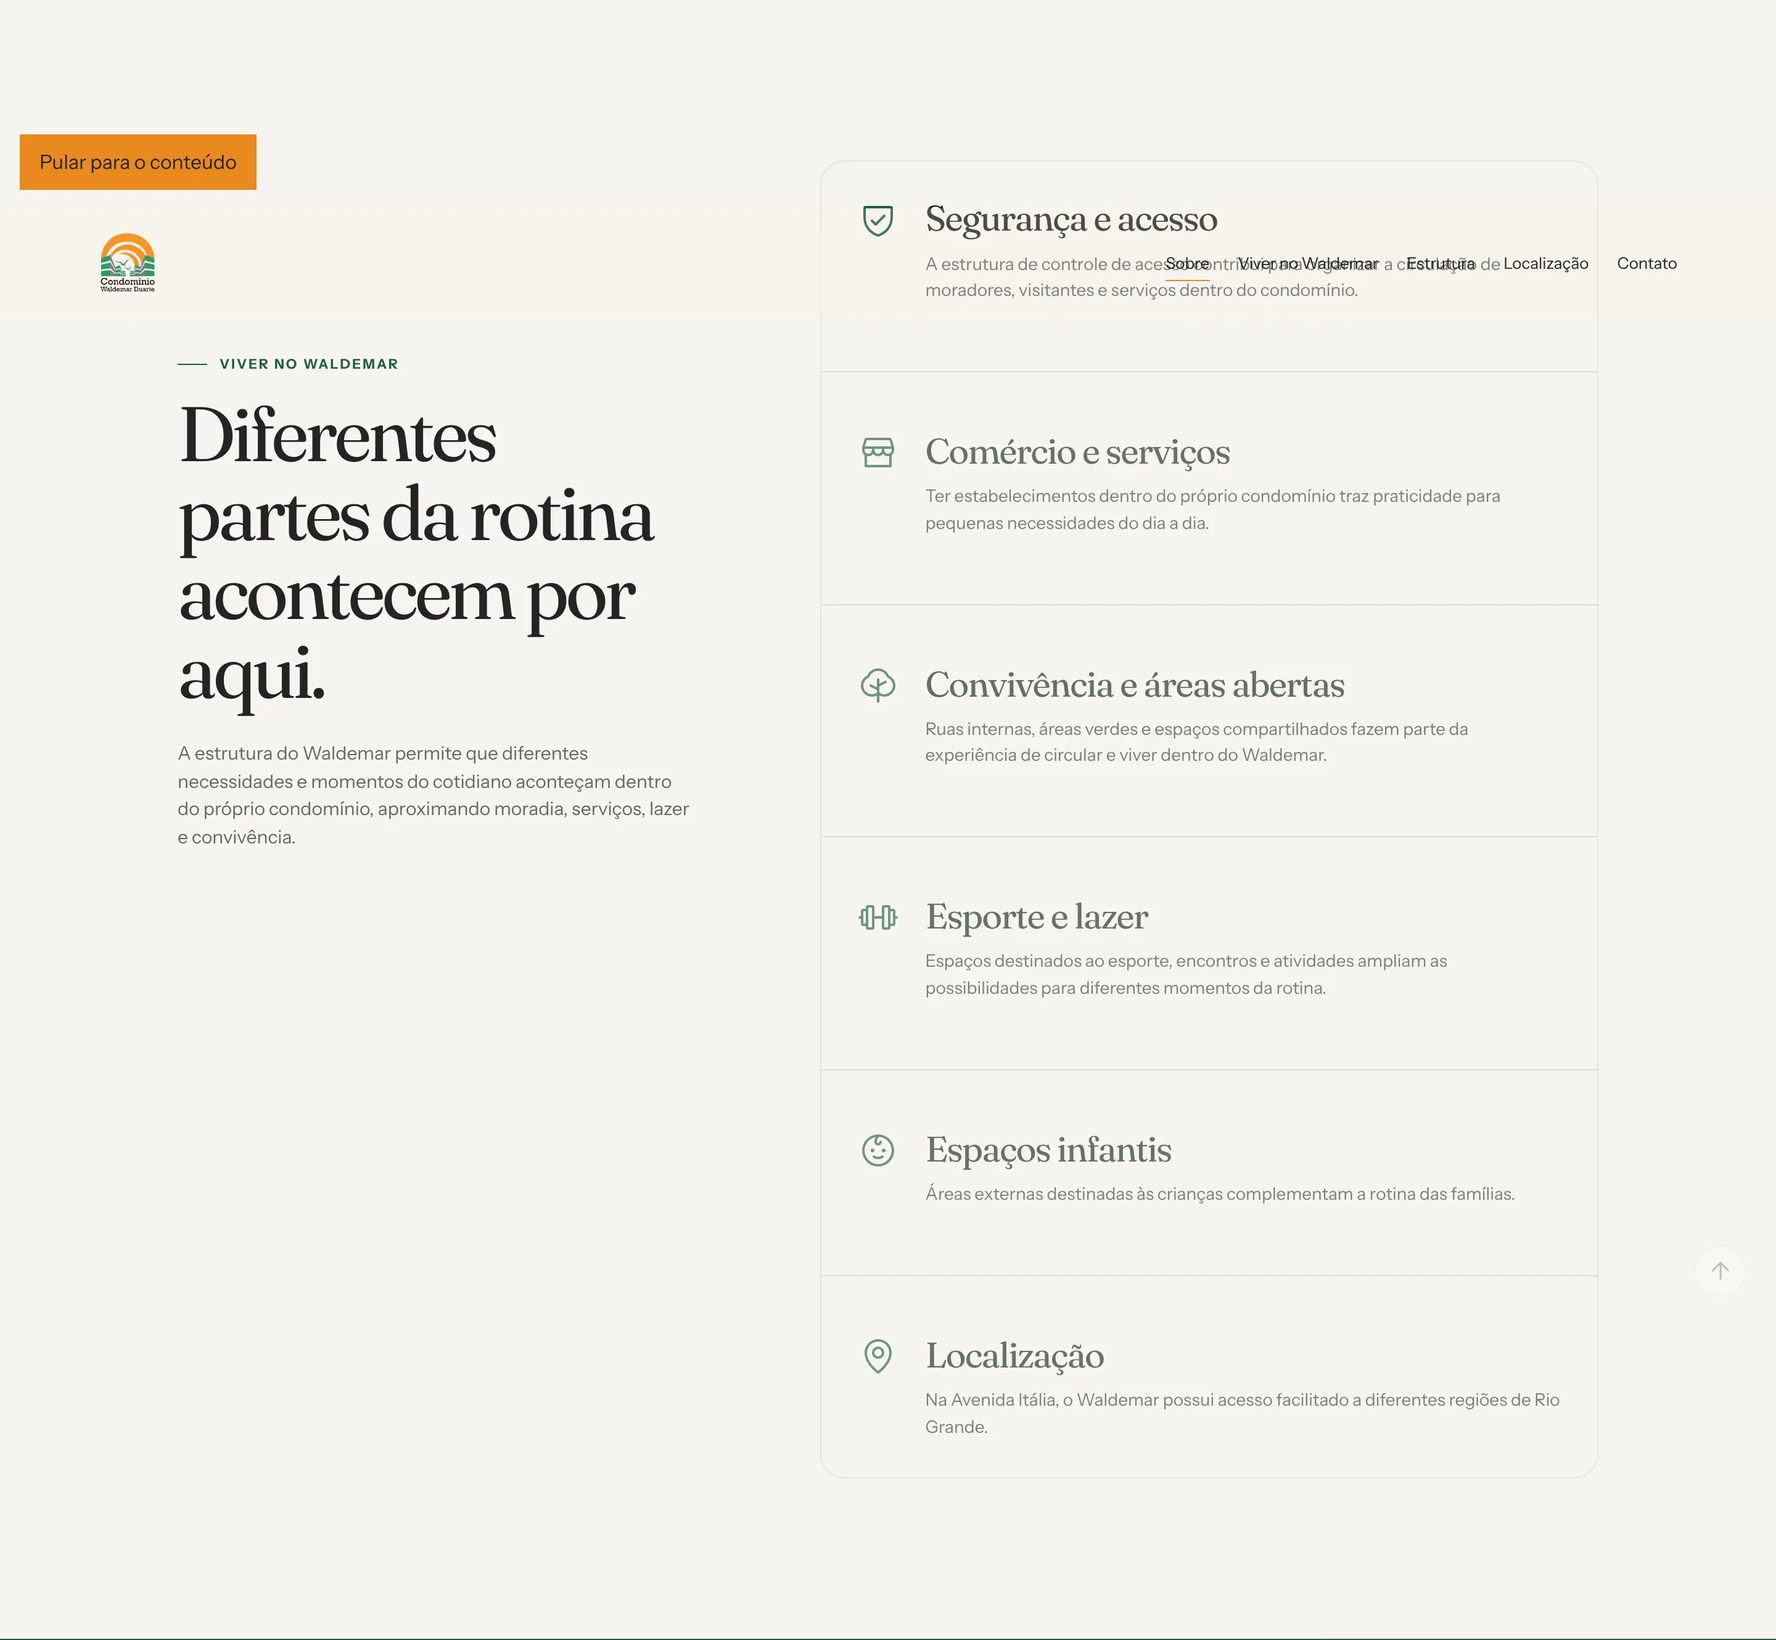
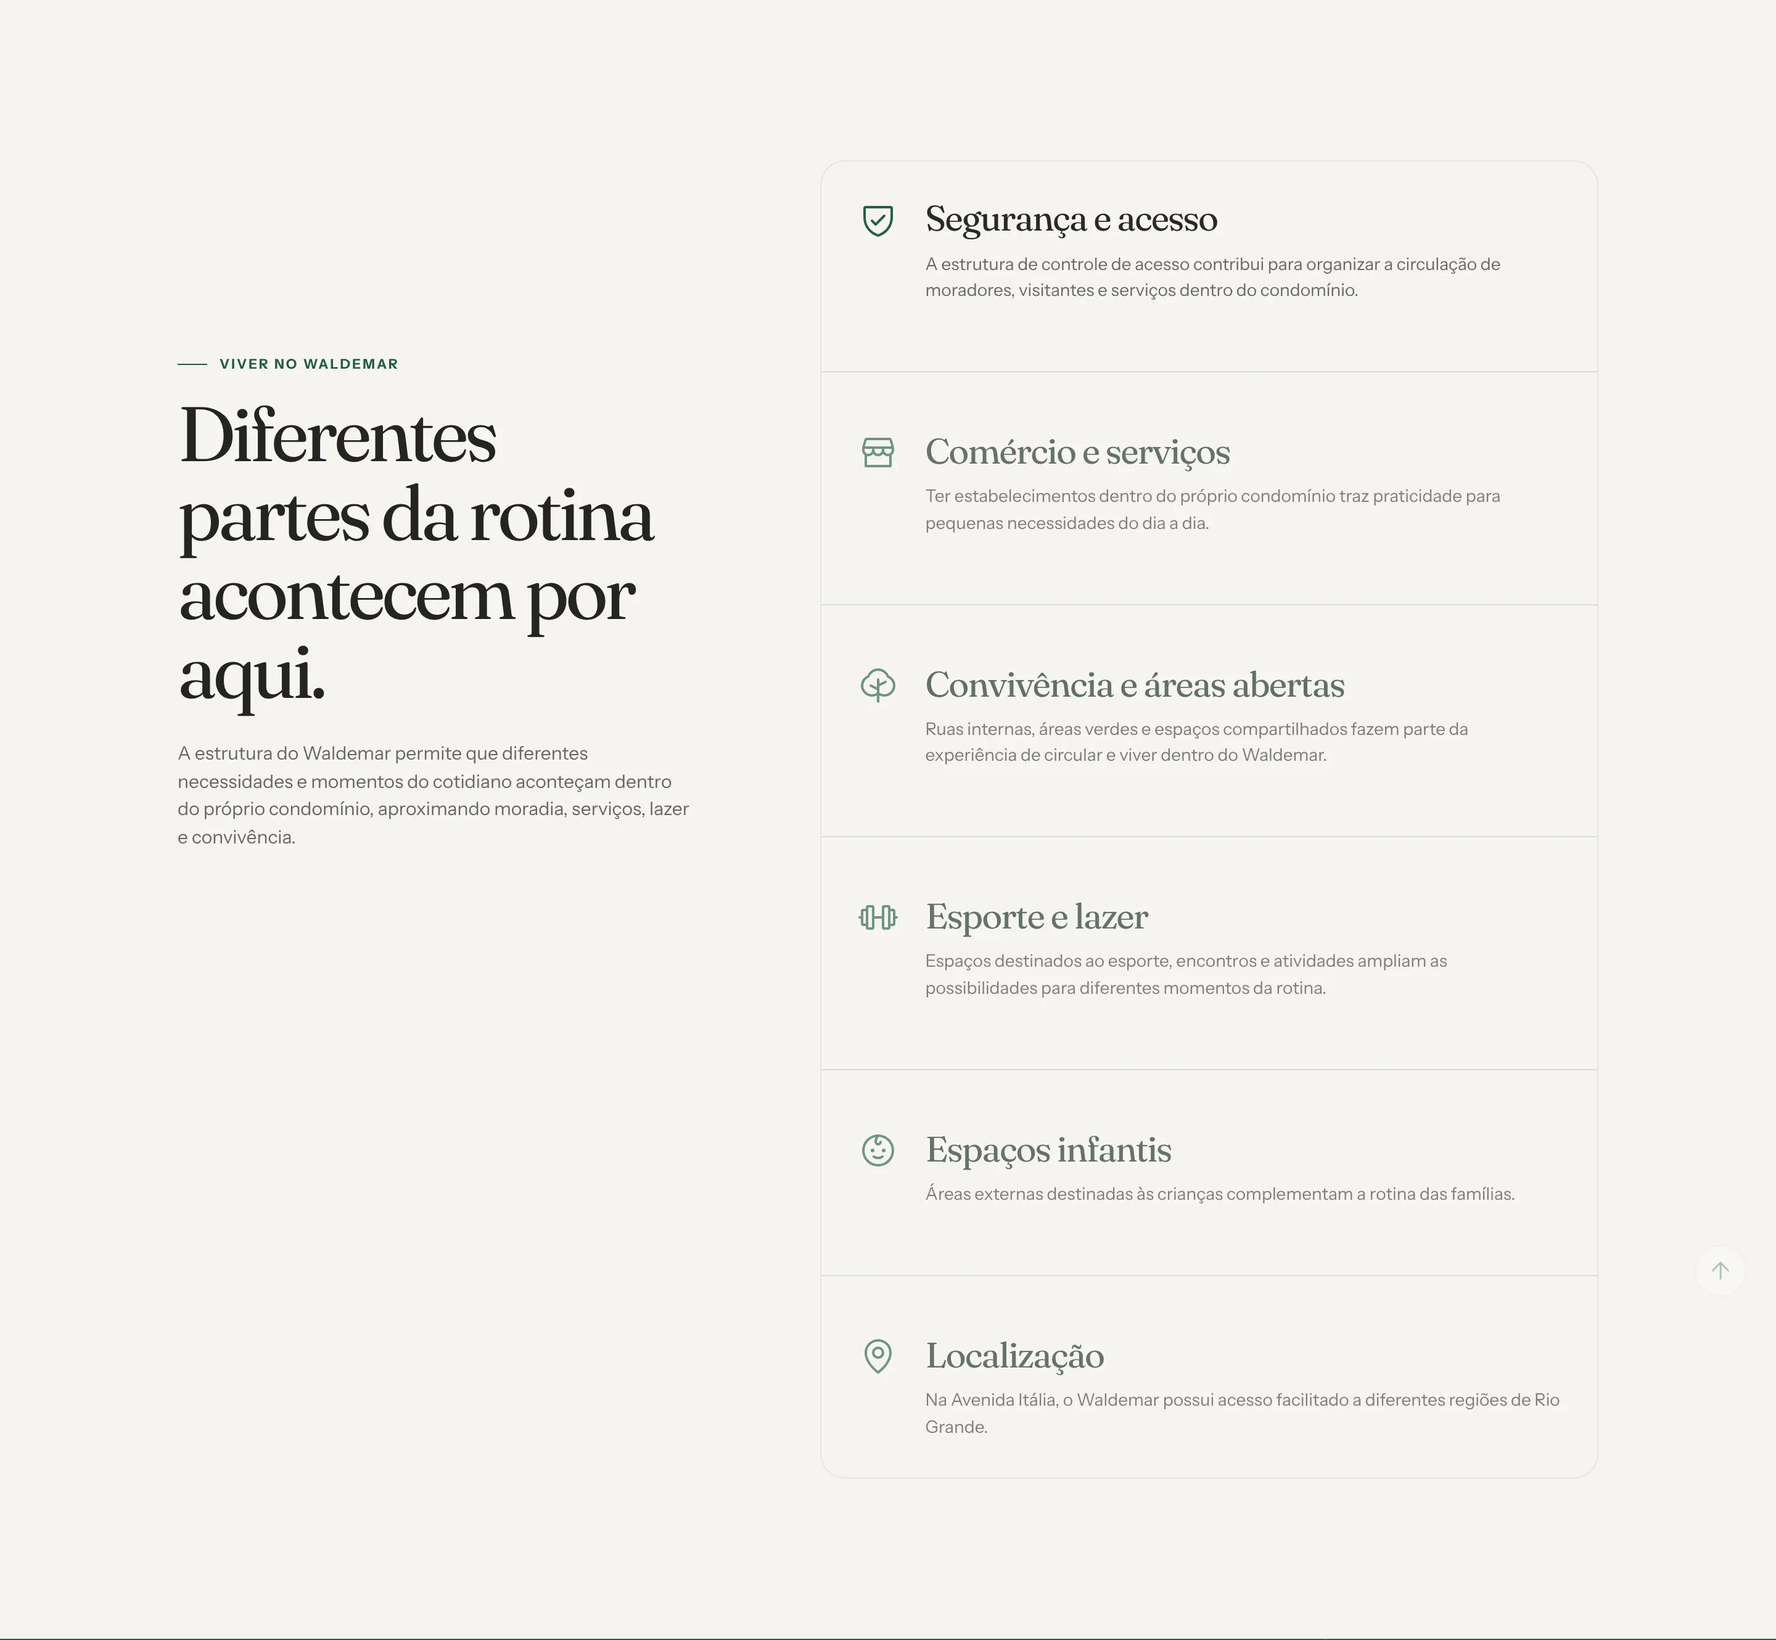
feat: horizontal case track with bar, progress and focus handling
Claude-Session: https://claude.ai/code/session_019NrZGaFbbwRiskK7pPLEpp

diff --git a/components/CaseTrack/case-track.css b/components/CaseTrack/case-track.css
@@ -1,0 +1,69 @@
+/* Case study page: the dark panel of the home's Projects section, opened up to the whole screen. */
+html:has(.case-page) { background: #171a18; }
+.case-page, .case-bar { --case-bg: #171a18; --case-ink: #eceee8; --case-muted: #b3bbb2; --case-line: rgb(236 238 232 / .14); --case-bar-h: 88px; --case-media-h: calc(100dvh - 2 * var(--case-bar-h)); color: var(--case-ink); }
+.case-page { min-height: 100dvh; background: var(--case-bg); color: var(--case-ink); }
+
+/* Top bar */
+.case-bar { position: fixed; z-index: 20; top: 0; left: 0; right: 0; height: var(--case-bar-h); display: flex; align-items: center; justify-content: space-between; gap: 16px; padding-inline: var(--gutter); pointer-events: none; }
+.case-bar > * { pointer-events: auto; }
+.case-bar-name { margin: 0; font-family: var(--type-display); font-size: 15px; font-weight: 500; letter-spacing: -.02em; }
+.case-bar-actions { display: flex; align-items: center; gap: 10px; }
+.case-close { display: grid; place-items: center; width: 40px; height: 40px; border-radius: 50%; box-shadow: inset 0 0 0 1px var(--case-line); color: var(--case-ink); transition: background-color .2s, box-shadow .2s; }
+.case-close svg { width: 18px; height: 18px; fill: none; stroke: currentColor; stroke-width: 1.6; stroke-linecap: round; }
+.case-close:hover { background: rgb(236 238 232 / .08); box-shadow: inset 0 0 0 1px rgb(236 238 232 / .3); }
+.case-close:focus-visible { outline: 2px solid var(--case-ink); outline-offset: 2px; }
+.case-bar .language-trigger { background: rgb(23 26 24 / .6); box-shadow: inset 0 0 0 1px var(--case-line); color: var(--case-ink); }
+.case-bar .language-trigger:hover, .case-bar .language-selector[data-open="true"] .language-trigger { background: rgb(236 238 232 / .08); box-shadow: inset 0 0 0 1px rgb(236 238 232 / .3); }
+.case-bar .language-trigger:focus-visible { outline-color: var(--case-ink); }
+
+/* Track: vertical scroll drives the row sideways while the stage stays pinned. */
+.case-track { position: relative; }
+.case-track-stage { position: relative; }
+.case-track[data-horizontal="true"] .case-track-stage { position: sticky; top: 0; height: 100dvh; overflow: clip; }
+.case-track-rail { display: flex; flex-direction: column; gap: 72px; padding: calc(var(--case-bar-h) + 24px) var(--gutter) 96px; will-change: transform; }
+.case-track[data-horizontal="true"] .case-track-rail { flex-direction: row; align-items: center; gap: clamp(48px, 6vw, 120px); width: max-content; height: 100%; padding: 0 var(--gutter); }
+.case-progress { position: absolute; left: 0; right: 0; bottom: 0; height: 2px; background: var(--accent-orange); transform-origin: 0 50%; }
+
+/* Panels */
+.case-panel { position: relative; margin: 0; flex: 0 0 auto; }
+.case-track[data-horizontal="true"] .case-panel { max-height: 100dvh; }
+.case-panel-opening, .case-panel-about, .case-panel-statement, .case-panel-end { display: flex; flex-direction: column; justify-content: center; }
+
+.case-title { margin: 0; font-family: var(--type-display); font-weight: 500; font-size: clamp(40px, 6vw, 96px); line-height: 1.04; letter-spacing: -.055em; }
+.case-title-line { display: block; overflow: hidden; padding-bottom: .06em; }
+.case-title-line > span { display: block; }
+/* In a column the hook flows as one sentence; the line breaks are for the wide opening only. */
+.case-track[data-horizontal="false"] :is(.case-title-line, .case-title-line > span) { display: inline; }
+.case-track[data-horizontal="true"] .case-panel-opening { width: min(1040px, 84vw); }
+.case-track[data-horizontal="true"] .case-title { font-size: clamp(40px, min(6vw, 11dvh), 96px); }
+.case-tags { display: flex; flex-wrap: wrap; gap: 8px; margin: clamp(24px, 4dvh, 40px) 0 0; padding: 0; list-style: none; }
+.case-tags li { padding: 7px 12px; border: 1px solid rgb(236 238 232 / .18); border-radius: 999px; font-family: var(--type-accent); font-size: 11px; line-height: 1.2; color: var(--case-muted); }
+
+.case-panel-about { gap: clamp(20px, 3.4dvh, 36px); width: min(560px, 86vw); }
+.case-about-block h2 { margin: 0 0 8px; font-family: var(--type-accent); font-size: 11px; font-weight: 400; letter-spacing: .06em; text-transform: uppercase; color: var(--case-muted); }
+.case-about-block p { margin: 0; font-family: var(--type-body); font-size: clamp(16px, min(1.3vw, 2.6dvh), 20px); line-height: 1.5; }
+
+.case-panel-statement { width: min(1100px, 88vw); }
+.case-statement { margin: 0; padding-bottom: .16em; font-family: var(--type-display); font-weight: 500; font-size: clamp(40px, min(7vw, 12dvh), 120px); line-height: 1.06; letter-spacing: -.055em; }
+
+.case-panel-end { gap: 28px; width: min(560px, 86vw); }
+.case-end-heading { margin: 0; font-family: var(--type-display); font-weight: 500; font-size: clamp(36px, min(4.4vw, 8dvh), 72px); line-height: 1.04; letter-spacing: -.05em; }
+.case-end-actions { display: flex; flex-wrap: wrap; gap: 12px; }
+
+/* Screens */
+.case-shot { position: relative; aspect-ratio: var(--ratio); overflow: hidden; border-radius: 14px; background: #323a31; }
+.case-shot-image { object-fit: cover; }
+.case-panel-image .case-shot { width: 100%; }
+.case-track[data-horizontal="true"] .case-panel-image { height: var(--case-media-h); aspect-ratio: var(--ratio); }
+.case-track[data-horizontal="true"] .case-panel-image .case-shot { height: 100%; }
+.case-panel-phones { display: grid; grid-template-columns: repeat(3, minmax(0, 1fr)); gap: 12px; }
+.case-panel-phones .case-shot { border-radius: 18px; }
+.case-track[data-horizontal="true"] .case-panel-phones { display: flex; gap: clamp(16px, 2vw, 32px); height: var(--case-media-h); }
+.case-track[data-horizontal="true"] .case-panel-phones .case-shot { height: 100%; border-radius: 24px; }
+
+@media (max-width: 767px) {
+ .case-page, .case-bar { --case-bar-h: 72px; }
+ .case-track-rail { gap: 56px; }
+ .case-shot { border-radius: 10px; }
+ .case-panel-phones .case-shot { border-radius: 12px; }
+}

diff --git a/components/CaseTrack/CaseTrack.tsx b/components/CaseTrack/CaseTrack.tsx
@@ -1,0 +1,96 @@
+"use client";
+
+import { createContext, useCallback, useContext, useEffect, useMemo, useRef, useState, type FocusEvent } from "react";
+import { motion, useMotionValue, useReducedMotion, useScroll, useTransform, type MotionValue } from "framer-motion";
+import type { CaseStudy } from "@/config/cases";
+import { useI18n } from "@/i18n/I18nProvider";
+import { CasePanelView } from "./CasePanels";
+import "./case-track.css";
+
+type CaseTrackState = {
+ /** The track runs sideways (desktop, motion allowed); otherwise the panels stack in a column. */
+ horizontal: boolean;
+ /** Progress through the track, 0 → 1, driven by the page's own vertical scroll. */
+ progress: MotionValue<number>;
+ /** The part of `progress` during which a panel crosses the screen, as [enters, leaves]. */
+ panelRange: (element: HTMLElement) => [number, number];
+};
+
+const CaseTrackContext = createContext<CaseTrackState | null>(null);
+
+export function useCaseTrack() {
+ const value = useContext(CaseTrackContext);
+ if (!value) throw new Error("useCaseTrack must be used inside CaseTrack");
+ return value;
+}
+
+const WIDE = "(min-width: 768px)";
+const clamp = (value: number, min: number, max: number) => Math.min(max, Math.max(min, value));
+
+/**
+ * The case as a row of full-height panels. The section is as tall as the row is wide, and its stage stays pinned
+ * (sticky) while the page scrolls, so ordinary vertical scrolling — wheel, trackpad, keys, scrollbar, Lenis — slides
+ * the row sideways. Phones and reduced motion get the same panels in a plain column.
+ */
+export function CaseTrack({ study }: { study: CaseStudy }) {
+ const { t } = useI18n();
+ const section = useRef<HTMLElement>(null);
+ const rail = useRef<HTMLDivElement>(null);
+ const reduced = !!useReducedMotion();
+ const [wide, setWide] = useState(false);
+ const [travel, setTravel] = useState(0);
+ const horizontal = wide && !reduced;
+
+ useEffect(() => {
+  const media = window.matchMedia(WIDE);
+  const update = () => setWide(media.matches);
+  update();
+  media.addEventListener("change", update);
+  return () => media.removeEventListener("change", update);
+ }, []);
+
+ // How far the row has to slide: its full width minus one screen. Re-measured whenever the row or window resizes.
+ useEffect(() => {
+  const element = rail.current;
+  if (!horizontal || !element) { setTravel(0); return; }
+  const measure = () => setTravel(Math.max(0, element.scrollWidth - document.documentElement.clientWidth));
+  const observer = new ResizeObserver(measure);
+  observer.observe(element);
+  window.addEventListener("resize", measure);
+  measure();
+  return () => { observer.disconnect(); window.removeEventListener("resize", measure); };
+ }, [horizontal]);
+
+ const travelValue = useMotionValue(0);
+ useEffect(() => travelValue.set(travel), [travel, travelValue]);
+ const { scrollYProgress } = useScroll({ target: section, offset: ["start start", "end end"] });
+ const x = useTransform(() => -scrollYProgress.get() * travelValue.get());
+
+ const panelRange = useCallback((element: HTMLElement): [number, number] => {
+  if (!travel) return [0, 1];
+  const width = document.documentElement.clientWidth;
+  return [clamp((element.offsetLeft - width) / travel, 0, 1), clamp((element.offsetLeft + element.offsetWidth) / travel, 0, 1)];
+ }, [travel]);
+
+ // A focused element off to the side is brought on screen by scrolling the page to the spot that centres its panel.
+ const onFocus = useCallback((event: FocusEvent<HTMLDivElement>) => {
+  const panel = (event.target as HTMLElement).closest<HTMLElement>(".case-panel");
+  if (!horizontal || !panel || !section.current) return;
+  const width = document.documentElement.clientWidth;
+  const shift = clamp(panel.offsetLeft - (width - panel.offsetWidth) / 2, 0, travel);
+  const top = section.current.getBoundingClientRect().top + window.scrollY;
+  window.scrollTo({ top: top + shift, behavior: "instant" });
+ }, [horizontal, travel]);
+
+ const state = useMemo(() => ({ horizontal, progress: scrollYProgress, panelRange }), [horizontal, scrollYProgress, panelRange]);
+ return <CaseTrackContext.Provider value={state}>
+  <section ref={section} className="case-track" data-horizontal={horizontal} style={horizontal ? { height: `calc(100dvh + ${travel}px)` } : undefined}>
+   <div className="case-track-stage">
+    <motion.div ref={rail} className="case-track-rail" style={{ x: horizontal ? x : 0 }} onFocus={onFocus}>
+     {study.panels.map((panel, index) => <CasePanelView key={`${panel.kind}-${index}`} panel={panel} study={study} />)}
+    </motion.div>
+    {horizontal && <motion.div className="case-progress" aria-hidden="true" title={t.cases.labels.progress} style={{ scaleX: scrollYProgress }} />}
+   </div>
+  </section>
+ </CaseTrackContext.Provider>;
+}

diff --git a/components/CaseTrack/CasePanels.tsx b/components/CaseTrack/CasePanels.tsx
@@ -1,0 +1,73 @@
+"use client";
+
+import Image from "next/image";
+import type { CSSProperties } from "react";
+import { Button } from "@/components/Button/Button";
+import type { CasePanel, CaseShot, CaseStudy } from "@/config/cases";
+import { quoteHref } from "@/config/identity";
+import { useI18n } from "@/i18n/I18nProvider";
+
+const ratio = (shot: CaseShot) => ({ "--ratio": `${shot.width} / ${shot.height}` }) as CSSProperties;
+
+function Opening({ study }: { study: CaseStudy }) {
+ const { t } = useI18n();
+ const copy = t.cases[study.key];
+ return <div className="case-panel case-panel-opening" data-kind="opening">
+  <h1 className="case-title">{copy.title.map(line => <span key={line} className="case-title-line"><span>{line}</span> </span>)}</h1>
+  <ul className="case-tags">{copy.tags.map(tag => <li key={tag}>{tag}</li>)}</ul>
+ </div>;
+}
+
+function About({ study }: { study: CaseStudy }) {
+ const { t } = useI18n();
+ const copy = t.cases[study.key];
+ const labels = t.cases.labels;
+ return <div className="case-panel case-panel-about" data-kind="about">
+  {([[labels.context, copy.context], [labels.goal, copy.goal], [labels.role, copy.role]] as const).map(([label, text]) => <div key={label} className="case-about-block">
+   <h2>{label}</h2>
+   <p>{text}</p>
+  </div>)}
+ </div>;
+}
+
+function Statement({ study }: { study: CaseStudy }) {
+ const { t } = useI18n();
+ return <div className="case-panel case-panel-statement" data-kind="statement">
+  <p className="case-statement">{t.cases[study.key].statement}</p>
+ </div>;
+}
+
+function Shot({ study, shot, sizes }: { study: CaseStudy; shot: CaseShot; sizes: string }) {
+ const { t } = useI18n();
+ return <div className="case-shot" style={ratio(shot)}>
+  <Image src={shot.src} alt={t.cases[study.key].alts[shot.id] ?? ""} fill sizes={sizes} className="case-shot-image" />
+ </div>;
+}
+
+function End({ study }: { study: CaseStudy }) {
+ const { t, path } = useI18n();
+ const labels = t.cases.labels;
+ return <div className="case-panel case-panel-end" data-kind="end">
+  <p className="case-end-heading">{t.contact.heading}</p>
+  <div className="case-end-actions">
+   <Button tone="dark" href={study.site} external aria-label={labels.visitLabel}>{labels.visit}</Button>
+   <Button tone="dark" href={quoteHref(t.contact.quoteMessage)} external aria-label={t.contact.talkLabel}>{t.contact.talk}</Button>
+   <Button tone="dark" variant="secondary" href={`${path("home")}#projetos`}>{labels.backToProjects}</Button>
+  </div>
+ </div>;
+}
+
+export function CasePanelView({ panel, study }: { panel: CasePanel; study: CaseStudy }) {
+ switch (panel.kind) {
+  case "opening": return <Opening study={study} />;
+  case "about": return <About study={study} />;
+  case "statement": return <Statement study={study} />;
+  case "end": return <End study={study} />;
+  case "image": return <figure className="case-panel case-panel-image" data-kind="image" data-id={panel.id} style={ratio(panel.shot)}>
+   <Shot study={study} shot={panel.shot} sizes="(min-width: 768px) 80vw, 100vw" />
+  </figure>;
+  case "phones": return <figure className="case-panel case-panel-phones" data-kind="phones" data-id={panel.id}>
+   {panel.shots.map(shot => <Shot key={shot.id} study={study} shot={shot} sizes="(min-width: 768px) 24vw, 33vw" />)}
+  </figure>;
+ }
+}

diff --git a/components/Pages/CasePage.tsx b/components/Pages/CasePage.tsx
@@ -1,18 +1,14 @@
+import { CaseBar } from "@/components/CaseTrack/CaseBar";
+import { CaseTrack } from "@/components/CaseTrack/CaseTrack";
+import { CASES } from "@/config/cases";
 import { type CaseKey, type Locale } from "@/i18n/config";
 import { getDictionary } from "@/i18n/dictionaries";
 import { I18nProvider } from "@/i18n/I18nProvider";
 
-/** A project case study, in either language. */
+/** A project case study, in either language: its own top bar over the horizontal track. */
 export function CasePage({ locale, caseKey }: { locale: Locale; caseKey: CaseKey }) {
- const dictionary = getDictionary(locale);
- const t = dictionary.cases[caseKey];
- const labels = dictionary.cases.labels;
- return <I18nProvider locale={locale} route={caseKey} dictionary={dictionary}>
-  <main>
-   <h1>{t.title.join(" ")}</h1>
-   <p>{labels.context}</p><p>{t.context}</p>
-   <p>{labels.goal}</p><p>{t.goal}</p>
-   <p>{labels.role}</p><p>{t.role}</p>
-  </main>
+ return <I18nProvider locale={locale} route={caseKey} dictionary={getDictionary(locale)}>
+  <CaseBar caseKey={caseKey} />
+  <main className="case-page"><CaseTrack study={CASES[caseKey]} /></main>
  </I18nProvider>;
 }

diff --git a/components/CaseTrack/CaseBar.tsx b/components/CaseTrack/CaseBar.tsx
@@ -1,0 +1,20 @@
+"use client";
+
+import { LanguageSelector } from "@/components/Header/LanguageSelector";
+import type { CaseKey } from "@/i18n/config";
+import { useI18n } from "@/i18n/I18nProvider";
+import "@/components/Header/header.css";
+
+/** The case's own top bar: its name, the language selector and a way back to the projects. */
+export function CaseBar({ caseKey }: { caseKey: CaseKey }) {
+ const { t, path } = useI18n();
+ return <header className="case-bar">
+  <p className="case-bar-name">{t.cases[caseKey].name}</p>
+  <div className="case-bar-actions">
+   <LanguageSelector />
+   <a className="case-close" href={`${path("home")}#projetos`} aria-label={t.cases.labels.backLabel}>
+    <svg viewBox="0 0 24 24" aria-hidden="true" focusable="false"><path d="M6 6l12 12M18 6 6 18" /></svg>
+   </a>
+  </div>
+ </header>;
+}
